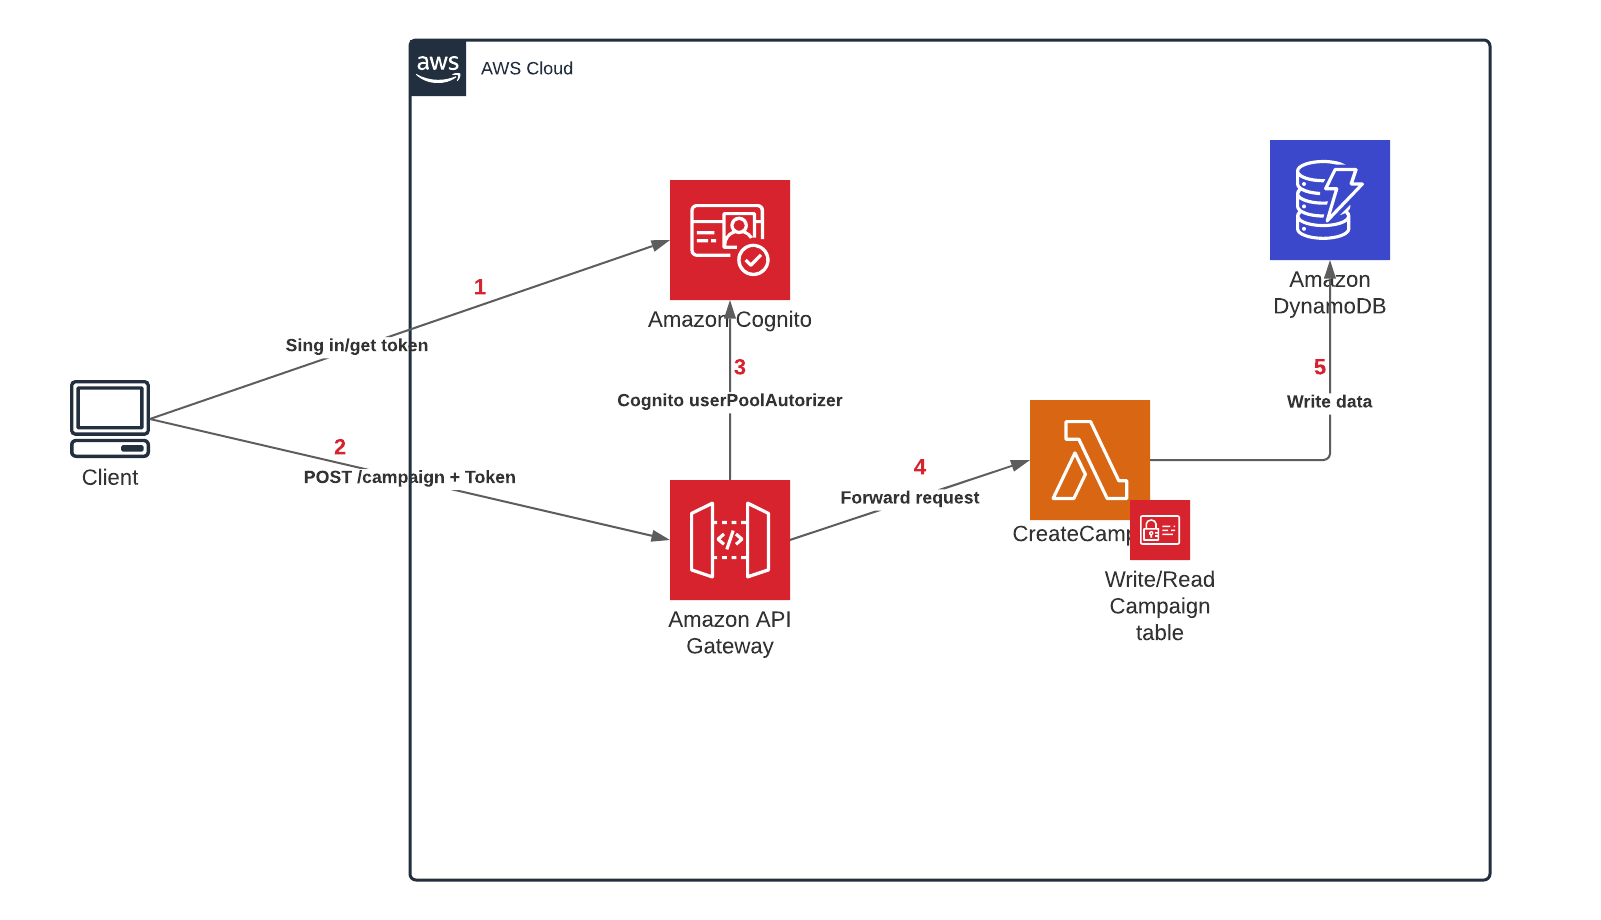
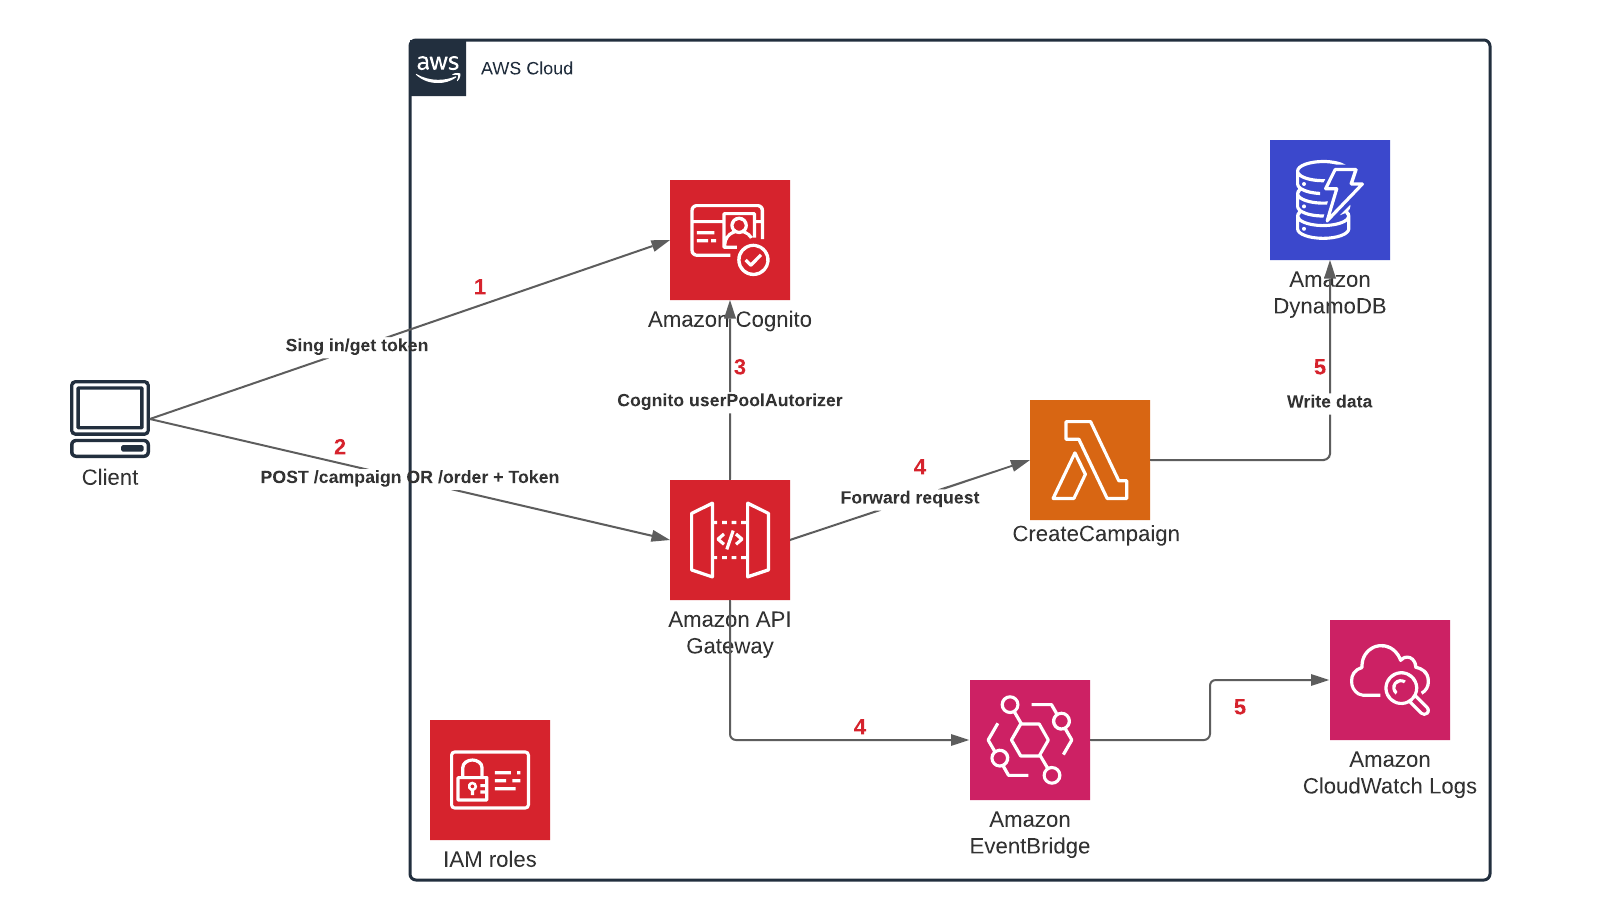
refactore EventBridge

diff --git a/src/support/gateway/gatewayStack.ts b/src/support/gateway/gatewayStack.ts
@@ -1,21 +1,13 @@
 import { Construct } from 'constructs';
-import { AuthorizationType, AwsIntegration, CognitoUserPoolsAuthorizer, Integration, IntegrationType, IResource, JsonSchemaType, JsonSchemaVersion, LambdaIntegration, MockIntegration, Model, PassthroughBehavior, RequestValidator, RestApi } from "aws-cdk-lib/aws-apigateway";
-import { Aws, Stack, StackProps } from 'aws-cdk-lib';
+import { AuthorizationType, CognitoUserPoolsAuthorizer, Integration, IResource, JsonSchemaType, JsonSchemaVersion, LambdaIntegration, MockIntegration, Model, PassthroughBehavior, RequestValidator, RestApi } from "aws-cdk-lib/aws-apigateway";
+import { Stack, StackProps } from 'aws-cdk-lib';
 import { NodejsFunction } from 'aws-cdk-lib/aws-lambda-nodejs';
 import { IUserPool } from 'aws-cdk-lib/aws-cognito';
-import { EventBus, Rule } from 'aws-cdk-lib/aws-events';
-import { LogGroup } from 'aws-cdk-lib/aws-logs';
-import { CloudWatchLogGroup } from 'aws-cdk-lib/aws-events-targets';
-import { Effect, PolicyStatement, Role, ServicePrincipal } from 'aws-cdk-lib/aws-iam';
-import { CfnIntegration, CfnRoute } from 'aws-cdk-lib/aws-apigatewayv2';
-import { RegionInfo } from 'aws-cdk-lib/region-info';
-
-
 export class GatewayStack extends Stack {
 
   private readonly endpoints: { lambda: NodejsFunction, path: string, httpMethod: string }[];
 
-  constructor(scope: Construct, id: string, endpoints: { lambda: NodejsFunction, path: string, httpMethod: string }[], userPool: IUserPool, props?: StackProps) {
+  constructor(scope: Construct, id: string, endpoints: { lambda: NodejsFunction, path: string, httpMethod: string }[], eventBridgeRestApiIntegration: Integration, userPool: IUserPool, props?: StackProps) {
     super(scope, id);
 
     this.endpoints = endpoints;
@@ -47,62 +39,14 @@ export class GatewayStack extends Stack {
       const lambdaIntegration = new LambdaIntegration(lambda);
 
       // add the integration to the API Gateway
-      const employeesApi = api.root.addResource(path);
-      employeesApi.addMethod(httpMethod, lambdaIntegration, {
+      const employeesResource = api.root.addResource(path);
+      employeesResource.addMethod(httpMethod, lambdaIntegration, {
         authorizer: auth,
         authorizationType: AuthorizationType.COGNITO,
       });
-      addCorsOptions(employeesApi);
+      addCorsOptions(employeesResource);
 
     })
-
-    const eventBus = new EventBus(this, 'MyEventBus', {
-      eventBusName: 'MyEventBus'
-    });
-
-    /* LOGGING */
-    const eventLoggerRule = new Rule(this, "EventLoggerRule", {
-      description: "Log all events",
-      eventPattern: { source: [`com.el.order`] },
-      eventBus: eventBus
-    });
-
-    const logGroup = new LogGroup(this, 'EventLogGroup', {
-      logGroupName: '/aws/events/MyEventBus',
-    });
-
-    eventLoggerRule.addTarget(new CloudWatchLogGroup(logGroup));
-
-
-    /* There's no Eventbridge integration available as CDK L2 yet, so we have to use L1 and create Role, Integration and Route */
-    const apiRole = new Role(this, 'EventBridgeIntegrationRole', {
-      assumedBy: new ServicePrincipal('apigateway.amazonaws.com'),
-    });
-
-    apiRole.addToPolicy(
-      new PolicyStatement({
-        effect: Effect.ALLOW,
-        resources: [eventBus.eventBusArn],
-        actions: ['events:PutEvents'],
-      })
-    );
-
-    const options = {
-      credentialsRole: apiRole,
-      requestParameters: {
-        "integration.request.header.X-Amz-Target": "'AWSEvents.PutEvents'",
-        "integration.request.header.Content-Type": "'application/x-amz-json-1.1'"
-      },
-      requestTemplates: {
-        "application/json": `{"Entries": [{"Source": "com.el.order", "Detail": "$util.escapeJavaScript($input.body)", "Resources": ["resource1", "resource2"], "DetailType": "myDetailType", "EventBusName": "${eventBus.eventBusName}"}]}`
-      },
-      integrationResponses: [{
-        statusCode: "200",
-        responseTemplates: {
-          "application/json": ""
-        }
-      }]
-    }
 
     // const eventbridgeIntegration = new Integration({
     //   type: IntegrationType.AWS,
@@ -134,15 +78,12 @@ export class GatewayStack extends Stack {
       }
     });
 
-    const ordersApi = api.root.addResource("order");
-    // ordersApi.addMethod("POST", eventbridgeIntegration);
-    ordersApi.addMethod("POST", new Integration({
-      type: IntegrationType.AWS,
-      uri: `arn:aws:apigateway:${Aws.REGION}:events:path//`,
-      integrationHttpMethod: "POST",
-      options: options,
-    }),
+    const ordersResource = api.root.addResource("order");
+    // ordersResource.addMethod("POST", eventbridgeIntegration);
+    ordersResource.addMethod("POST", eventBridgeRestApiIntegration,
       {
+        authorizer: auth,
+        authorizationType: AuthorizationType.COGNITO,
         methodResponses: [{ statusCode: "200" }],
         requestModels: { "application/json": orderModel },
         requestValidator: new RequestValidator(this, "orderValidator", {
@@ -151,7 +92,7 @@ export class GatewayStack extends Stack {
         })
       })
 
-    addCorsOptions(ordersApi);
+    addCorsOptions(ordersResource);
     // new CfnRoute(this, 'EventRoute', {
     //   apiId: api.restApiId,
     //   routeKey: 'POST /order',

diff --git a/src/support/eventbus/EventBridgeStack.ts b/src/support/eventbus/EventBridgeStack.ts
@@ -1,0 +1,82 @@
+import { Aws, Stack, StackProps } from "aws-cdk-lib";
+import { Integration, IntegrationType } from "aws-cdk-lib/aws-apigateway";
+import { EventBus, Rule } from "aws-cdk-lib/aws-events";
+import { CloudWatchLogGroup } from "aws-cdk-lib/aws-events-targets";
+import { Effect, PolicyStatement, Role, ServicePrincipal } from "aws-cdk-lib/aws-iam";
+import { LogGroup } from "aws-cdk-lib/aws-logs";
+import { Construct } from "constructs";
+
+
+
+export class EventBridgeStack extends Stack {
+
+  public readonly eventBridgeRestApiIntegration: Integration;
+
+  constructor(scope: Construct, id: string, props?: StackProps) {
+    super(scope, id);
+
+
+    const eventBus = new EventBus(this, 'MyEventBus', {
+      eventBusName: 'MyEventBus'
+    });
+
+    /* LOGGING */
+    const eventLoggerRule = new Rule(this, "EventLoggerRule", {
+      description: "Log all events",
+      eventPattern: { source: [`com.el.order`] },
+      eventBus: eventBus
+    });
+
+    const logGroup = new LogGroup(this, 'EventLogGroup', {
+      logGroupName: '/aws/events/MyEventBus',
+    });
+
+    eventLoggerRule.addTarget(new CloudWatchLogGroup(logGroup));
+
+
+
+    /* There's no Eventbridge integration available as CDK L2 yet, so we have to use L1 and create Role, Integration and Route */
+    const apiRole = new Role(this, 'EventBridgeIntegrationRole', {
+      assumedBy: new ServicePrincipal('apigateway.amazonaws.com'),
+    });
+
+    apiRole.addToPolicy(
+      new PolicyStatement({
+        effect: Effect.ALLOW,
+        resources: [eventBus.eventBusArn],
+        actions: ['events:PutEvents'],
+      })
+    );
+
+    /**
+     * todo: get user cleams (username/email) and add it to eventbridge
+     */
+    const options = {
+      credentialsRole: apiRole,
+      requestParameters: {
+        "integration.request.header.X-Amz-Target": "'AWSEvents.PutEvents'",
+        "integration.request.header.Content-Type": "'application/x-amz-json-1.1'"
+      },
+      requestTemplates: {
+        "application/json": `{"Entries": [{"Source": "com.el.order", "Detail": "$util.escapeJavaScript($input.body)", "Resources": ["resource1", "resource2"], "DetailType": "myDetailType", "EventBusName": "${eventBus.eventBusName}"}]}`
+      },
+      integrationResponses: [{
+        statusCode: "200",
+        responseTemplates: {
+          "application/json": ""
+        }
+      }]
+    }
+
+    this.eventBridgeRestApiIntegration = new Integration({
+      type: IntegrationType.AWS,
+      uri: `arn:aws:apigateway:${Aws.REGION}:events:path//`,
+      integrationHttpMethod: "POST",
+      options: options,
+    })
+
+
+
+  }
+
+}

diff --git a/bin/backend.ts b/bin/backend.ts
@@ -5,6 +5,7 @@ import { LambdaLayersStack } from '../src/core/LambdaLayersStack';
 import { CognitoStack } from '../src/support/sso/CognitoStack';
 import { CampaignStack } from '../src/services/campaign-service/infrastructure/campaignStack';
 import { GatewayStack } from '../src/support/gateway/gatewayStack';
+import { EventBridgeStack } from '../src/support/eventbus/EventBridgeStack';
 
 
 
@@ -19,7 +20,9 @@ const campaignStack = new CampaignStack(app, 'compaign-servie', {});
 
 const endpoints = [...campaignStack.lambdas,];
 
-new GatewayStack(app, 'Gateway', endpoints, cognito.userPool, {
+const eventBridge = new EventBridgeStack(app, "myEventBridge", {});
+
+new GatewayStack(app, 'Gateway', endpoints, eventBridge.eventBridgeRestApiIntegration, cognito.userPool, {
 })
 
 

diff --git a/src/core/MicroServiceStack.ts b/src/core/MicroServiceStack.ts
@@ -29,7 +29,7 @@ export abstract class MicroServiceStack extends Stack {
         const yupParamName = '/layers/yup';
 
         // fetch the Arn from param store
-        const yupLayerArn = ssm.StringParameter.valueForStringParameter(
+        const yupLayerArn = ssm.StringParameter.valueFromLookup(
             this,
             yupParamName
         );
